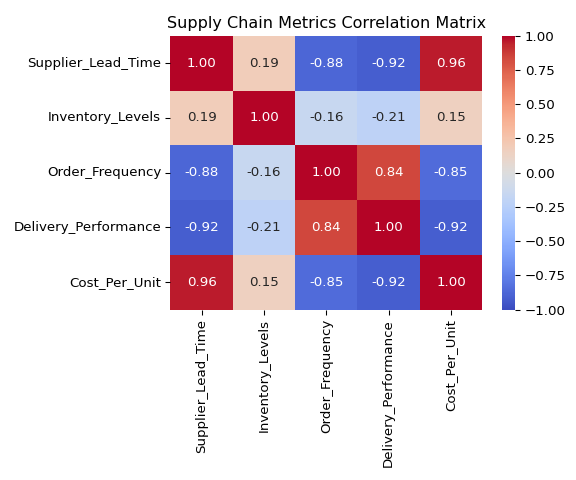
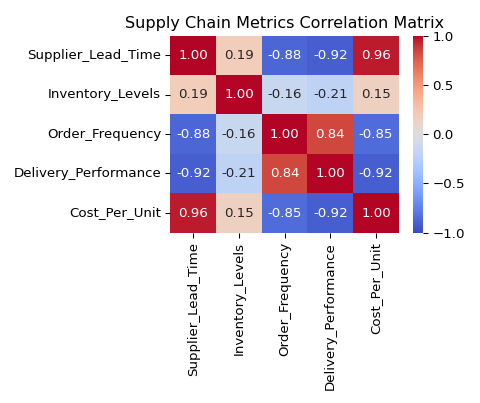
Feat: Add correlation matrix and heatmap from XLSX data 1

Changed region(s): [[0.0312, 0.0298, 1.0, 0.9826]]

diff --git a/create_heatmap.py b/create_heatmap.py
@@ -5,16 +5,16 @@ import matplotlib.pyplot as plt
 # Read the correlation matrix we created
 corr_df = pd.read_csv('correlation.csv', index_col=0)
 
-# Create a figure for the plot
-plt.figure(figsize=(6, 5))
+# UPDATED: Create a smaller figure for the plot
+plt.figure(figsize=(5, 4.2)) # This creates a 480x403 pixel image with dpi=96
 
-# Generate the heatmap
+# Generate the heatmap (no changes here)
 sns.heatmap(corr_df, annot=True, cmap='coolwarm', fmt=".2f", vmin=-1, vmax=1)
 
 plt.title('Supply Chain Metrics Correlation Matrix')
-plt.tight_layout()
+plt.tight_layout() # Adjusts plot to ensure everything fits without overlapping
 
 # Save the heatmap as a PNG image
-plt.savefig('heatmap.png', dpi=96)
+plt.savefig('heatmap.png', dpi=96) # dpi remains 96
 
-print("Successfully created heatmap.png")
+print("Successfully created heatmap.png with dimensions under 512x512.")
